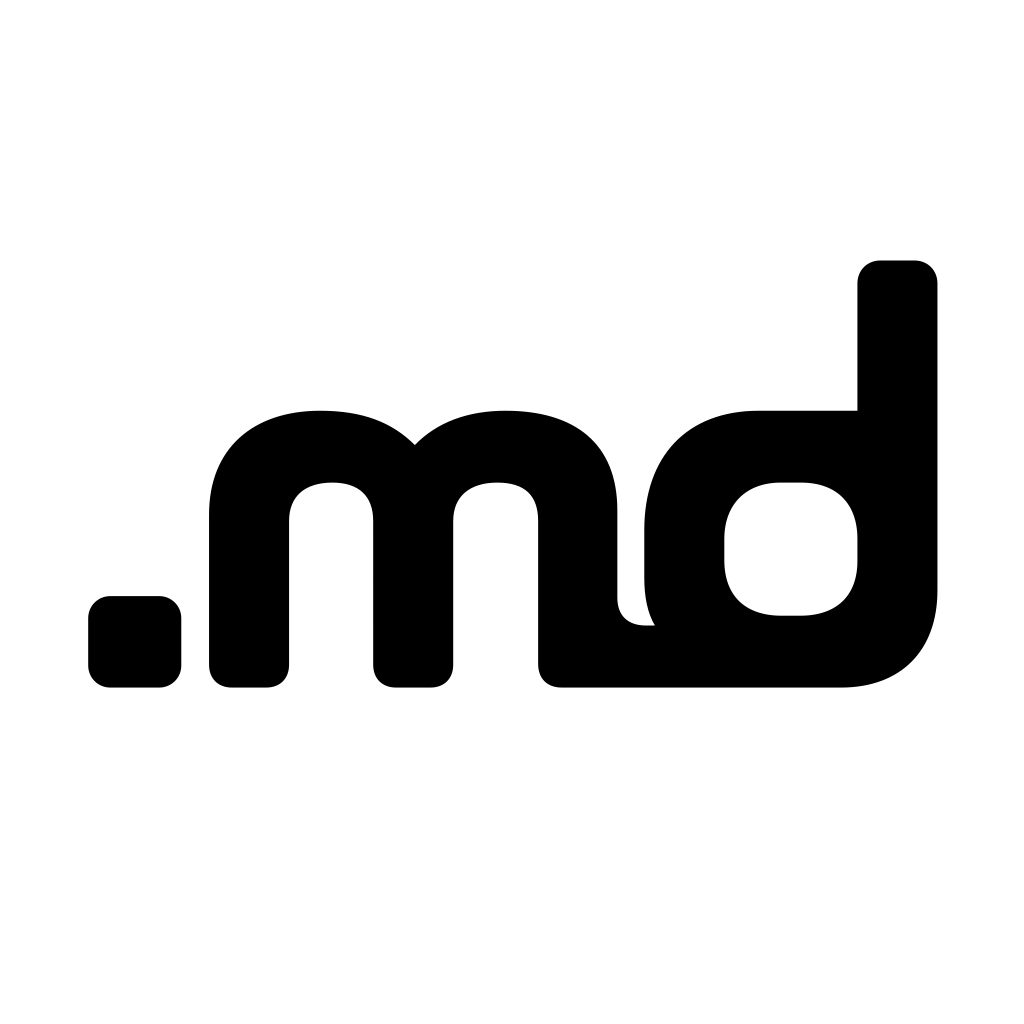
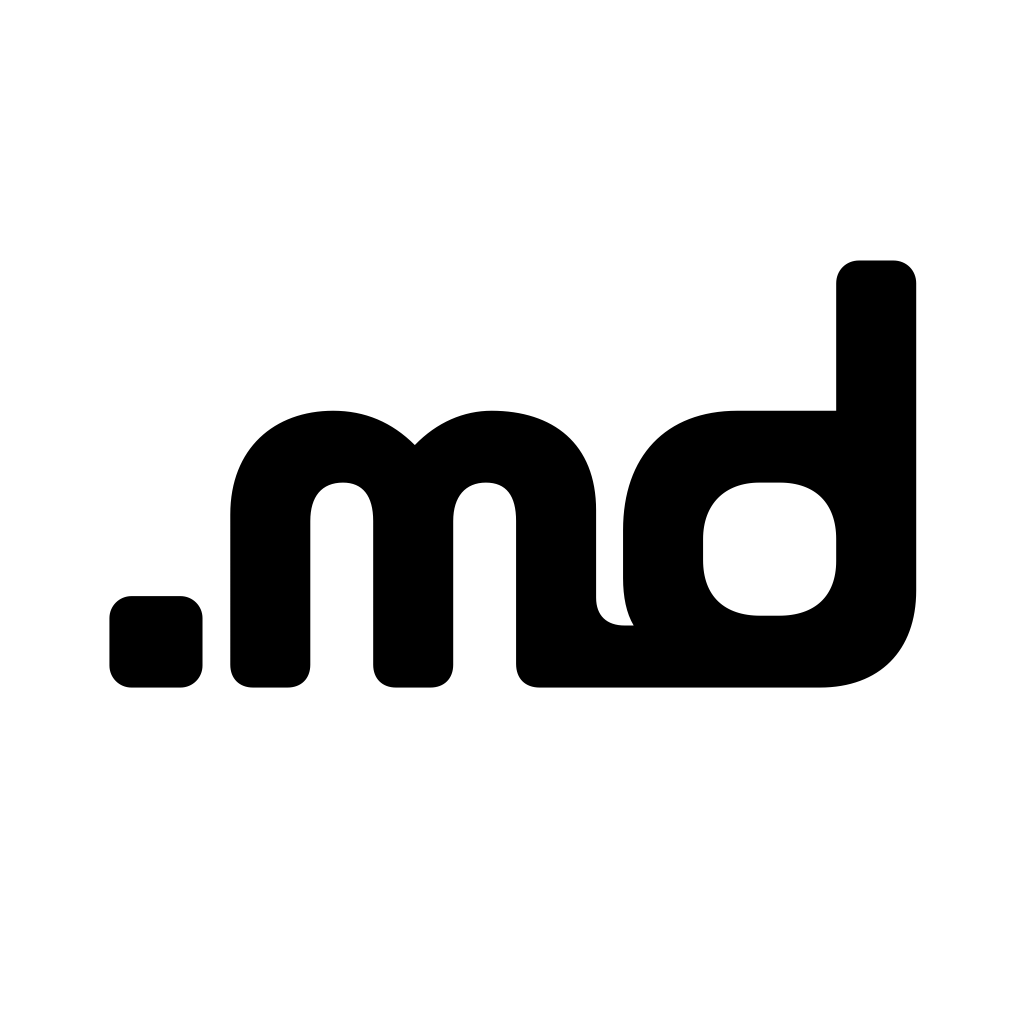
Refine the proportions of the Markdown ligature

diff --git a/design/brand/production/README.md b/design/brand/production/README.md
@@ -2,7 +2,7 @@
 
 标志为小写 `.md` 合字，保留加高的 d 竖笔与既定字形间距。SVG 使用独立轮廓，不依赖字体。
 
-竖笔以母版坐标中的 98 为粗细基准，d 的字腹上下沿为 88，弧线按视觉重量校正。m 保留双拱的自然宽度；各字形共用基线，d 的高竖笔与 m 的端部采用相同圆角。
+竖笔以母版坐标中的 98 为粗细基准，d 的字腹上下沿为 88，弧线按视觉重量校正。m、d 的字宽比例约为 1.25∶1，m 的两个拱等距收紧；各字形共用基线，d 的高竖笔与 m 的端部采用相同圆角。
 
 ## 正式资产
 
